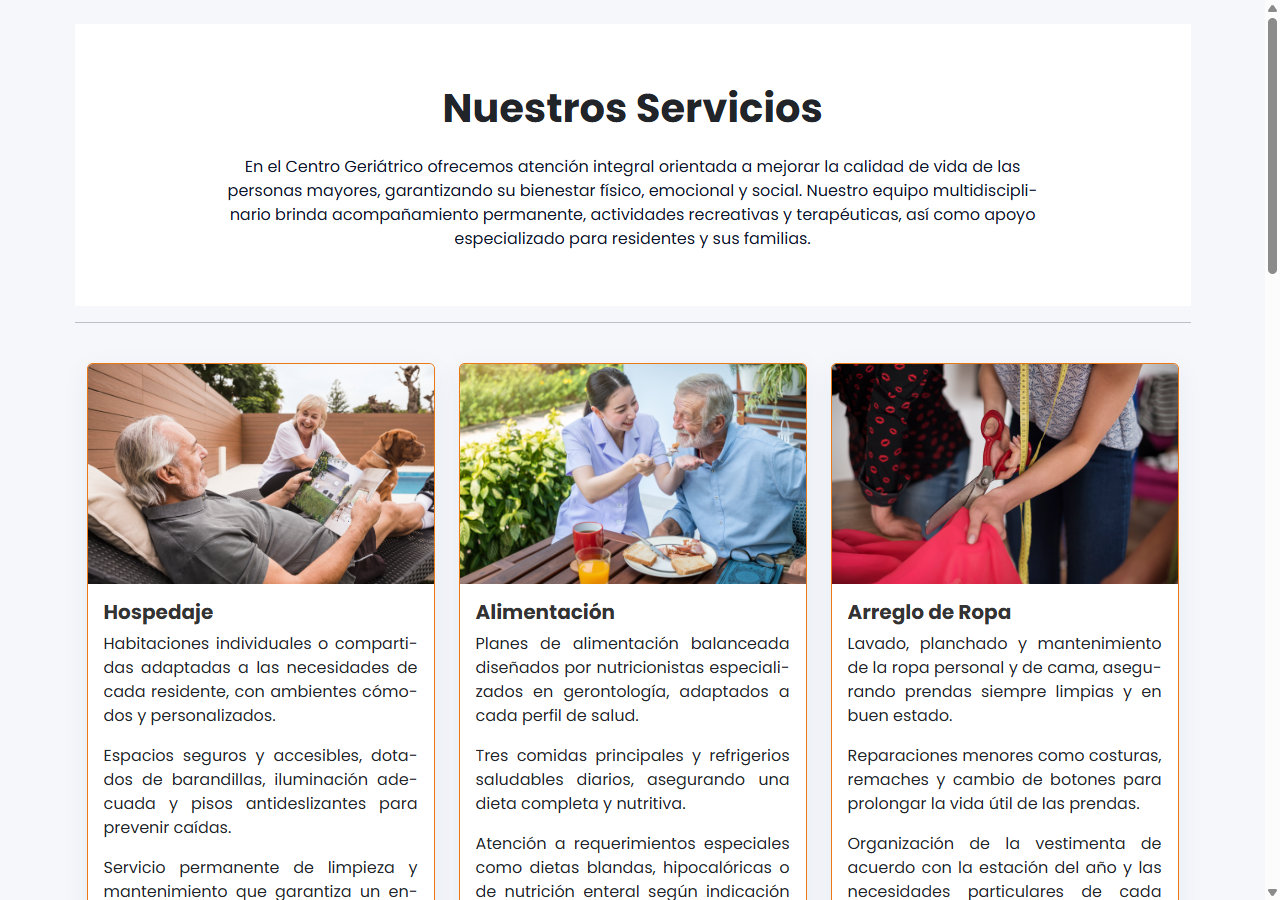
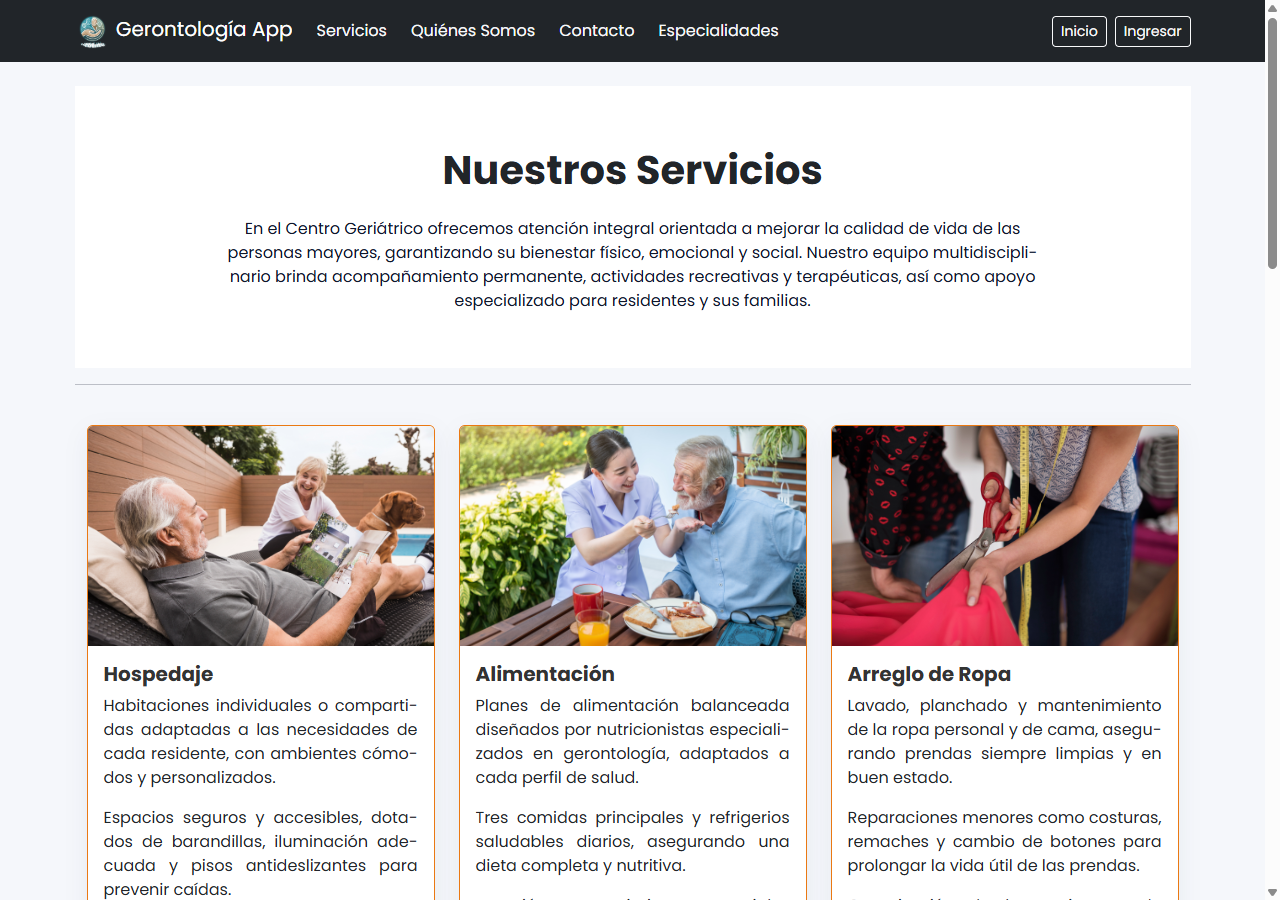
fix(layout): restore marketing navbar and keep module bar hidden on opt-out pages

diff --git a/myapp/templates/module_base.html b/myapp/templates/module_base.html
@@ -16,9 +16,6 @@
         /* Hide module topbar on pages that opt-out */
         .no-module-topbar .module-topbar{ display: none !important; }
         .no-module-topbar .module-wrapper{ margin-top: 0 !important; }
-        /* Also hide the main navbar on opt-out pages */
-        .no-module-topbar .navbar{ display: none !important; }
-        .no-module-topbar main{ padding-top: 0 !important; }
     </style>
 </head>
 <body class="{% block body_class %}{% endblock %}">
